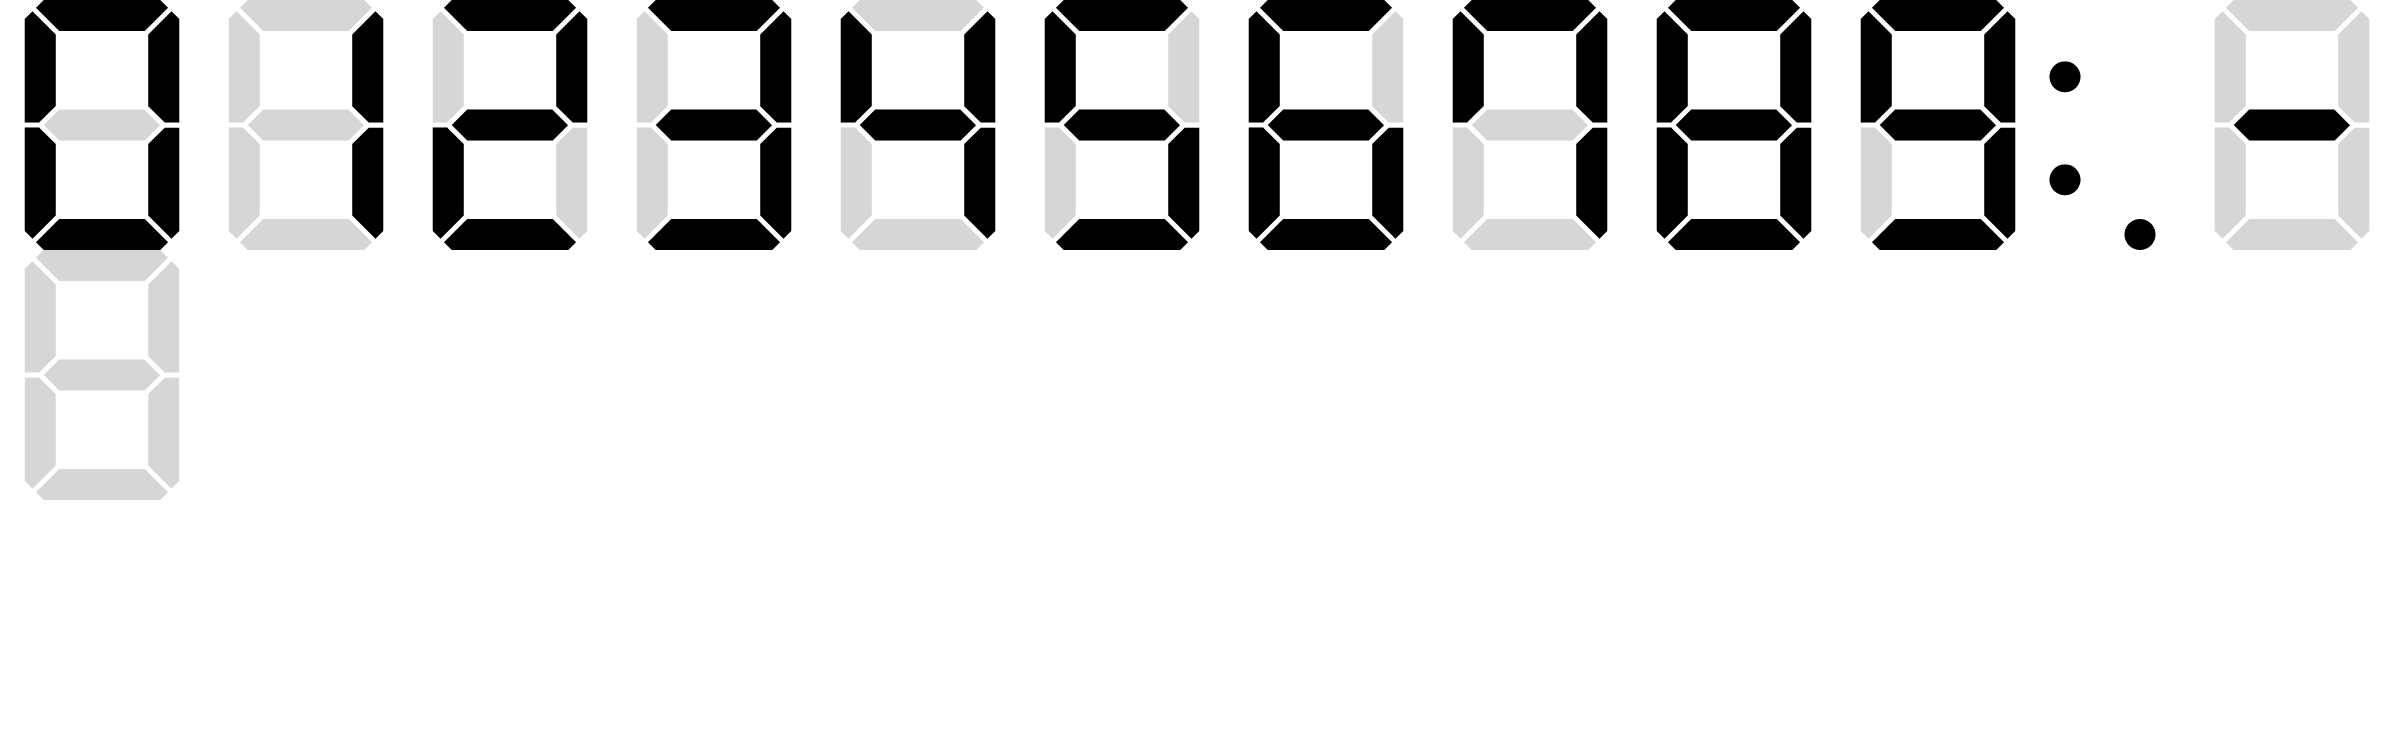
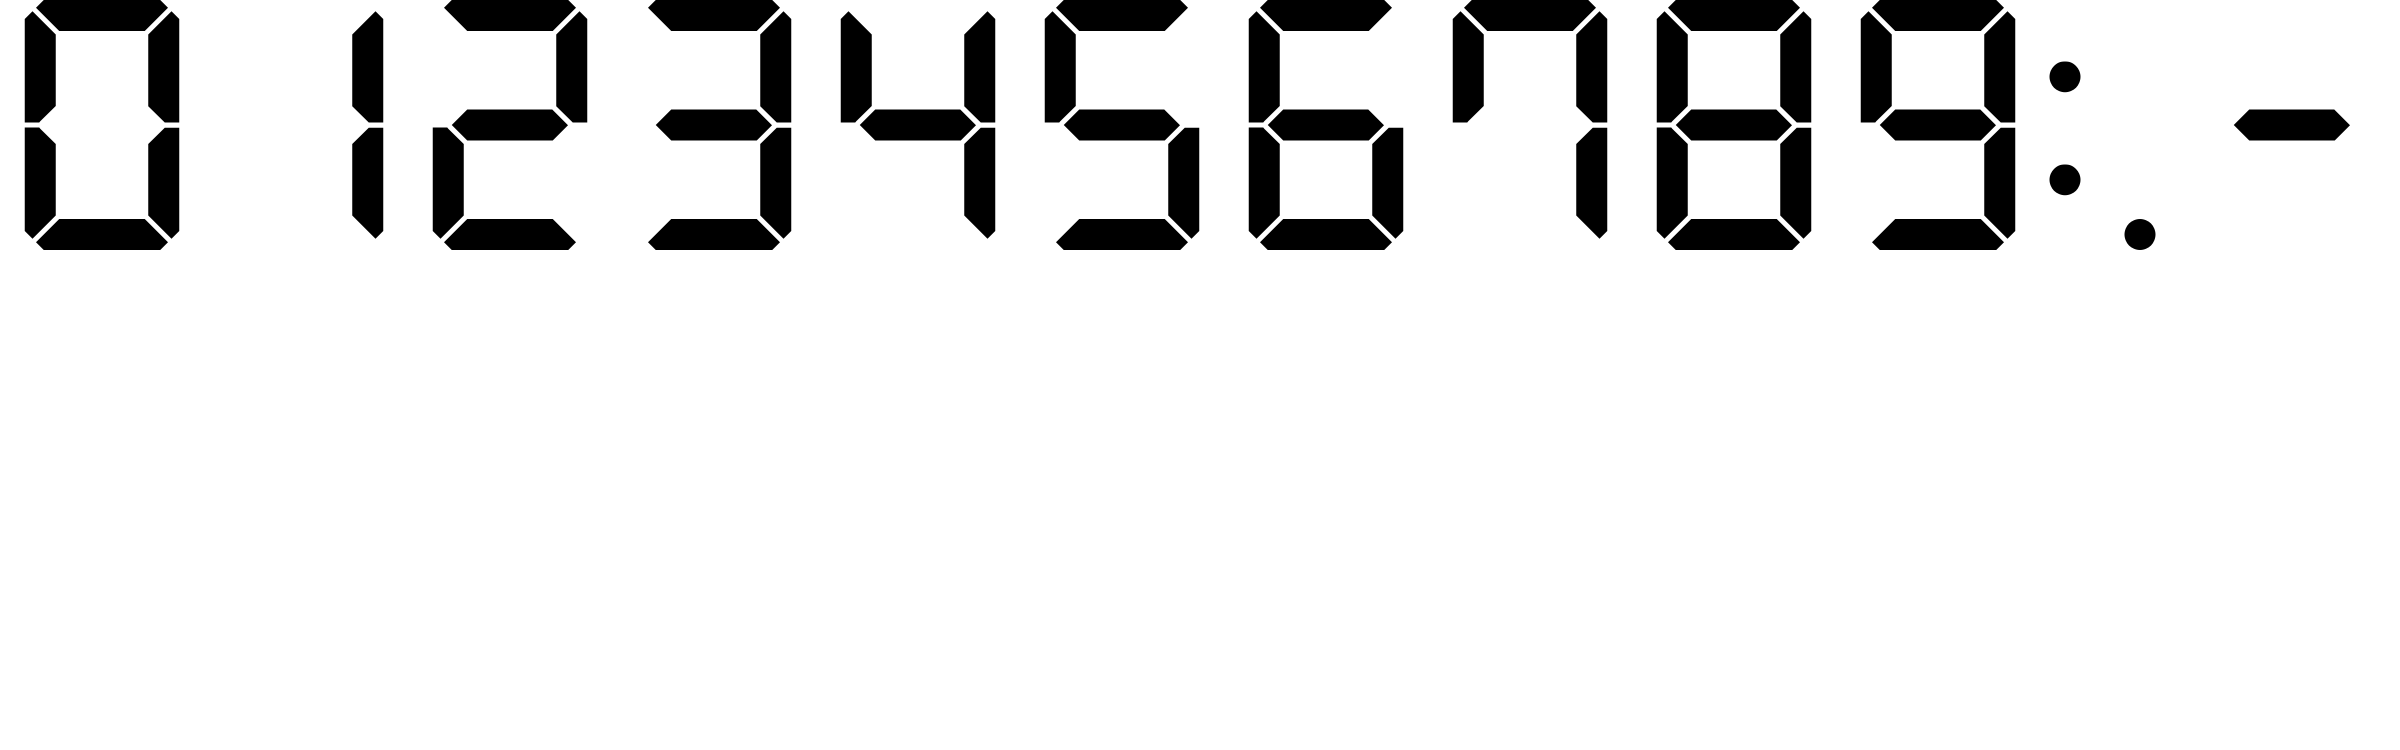
1.2.0-dev: added digitsstyle option

diff --git a/src/org/osumercury/controlcenter/gui/Assets.java b/src/org/osumercury/controlcenter/gui/Assets.java
@@ -49,8 +49,12 @@ public class Assets {
     private static BufferedImage digitsImg;
     private static BufferedImage classicDigitsImg;
     private static BufferedImage fontImg;
+    
     public static final int DEFAULT_BG_FADE = 10;
     public static final int DEFAULT_BG_COLOR = 0xffffff;
+    
+    public static final int DIGITS_MODERN = 0;
+    public static final int DIGITS_CLASSIC = 1;
     
     public static void loadInternalAssets() {
         try {
@@ -135,8 +139,9 @@ public class Assets {
         if(val != null) {
             try {
                 long intVal = Long.parseLong(val, 16);
-                populateDigits(digitsImg, (int)(intVal & 0xffL),
-                               (int)((intVal >> 8) & 0xffffffL));
+                digitFade = (int)(intVal & 0xffL);
+                digitFadeColor = (int)((intVal >> 8) & 0xffffffL);
+                populateDigits(digitsImg, digitFade, digitFadeColor);
             } catch(Exception e) {
                 System.err.println("Assets.theme: failed to parse digit fade");
                 System.err.println("Assets.theme: " + e.toString());
@@ -393,6 +398,16 @@ public class Assets {
                 DisplayFrame.SPACING_XL = Float.parseFloat(tokens[4]);
             } catch(Exception e) {
                 System.err.println("Assets.theme: failed to parse spacing");
+                System.err.println("Assets.theme: " + e.toString());
+            }
+        }
+        
+        val = theme.get("digitsstyle");
+        if(val != null) {
+            try {
+                setDigitsStyle(Integer.parseInt(val), digitFade, digitFadeColor);
+            } catch(Exception e) {
+                System.err.println("Assets.theme: failed to parse digits style");
                 System.err.println("Assets.theme: " + e.toString());
             }
         }
@@ -684,8 +699,16 @@ public class Assets {
         colorize(altColor, null, blackNonAlphabet, alternativeColorNonAlphabet);
     }
     
-    public static void setClassicDigits() {
-        populateDigits(classicDigitsImg, 204, 250, 2040, 70, 2110, 38, 2190, 204, DEFAULT_BG_FADE, DEFAULT_BG_COLOR);
+    public static void setDigitsStyle(int style, int fade, int fadeColor) {
+        switch(style) {
+            case Assets.DIGITS_CLASSIC:
+                populateDigits(classicDigitsImg, 
+                               204, 250, 2036, 56, 2110, 38, 2190, 204, 
+                               fade, fadeColor);
+                break;
+            default:
+                populateDigits(digitsImg, fade, fadeColor);
+        }
     }
     
     public static BufferedImage[] scaleFontH(int row, int height) {

diff --git a/src/org/osumercury/controlcenter/gui/DisplayOptionsFrame.java b/src/org/osumercury/controlcenter/gui/DisplayOptionsFrame.java
@@ -32,6 +32,7 @@ import javax.swing.JTabbedPane;
 import javax.swing.JTextArea;
 import javax.swing.JTextField;
 import javax.swing.event.ChangeEvent;
+import org.osumercury.controlcenter.Config;
 import org.osumercury.controlcenter.ControlCenter;
 import org.osumercury.controlcenter.Log;
 
@@ -46,6 +47,7 @@ public class DisplayOptionsFrame extends JFrame {
     private JPanel mainPaneTheme;
     private JPanel paneThemeButtons;
     private JButton btnThemeApply;
+    private JButton btnThemeLoad;
     private JTextArea txtTheme;
     
     private JPanel mainPaneDimensions;
@@ -277,6 +279,7 @@ public class DisplayOptionsFrame extends JFrame {
         
         paneThemeButtons = new JPanel();
         btnThemeApply = new JButton("Apply");
+        btnThemeLoad = new JButton("Load from Config");
         txtTheme = new JTextArea();
         txtTheme.setBackground(Color.BLACK);
         txtTheme.setForeground(new Color(0x20, 0xbb, 0xff));
@@ -286,14 +289,32 @@ public class DisplayOptionsFrame extends JFrame {
         JScrollPane scrollText = new JScrollPane(txtTheme, 
                 JScrollPane.VERTICAL_SCROLLBAR_ALWAYS,
                 JScrollPane.HORIZONTAL_SCROLLBAR_AS_NEEDED);
+        paneThemeButtons.add(btnThemeLoad);
         paneThemeButtons.add(btnThemeApply);
+        btnThemeLoad.addActionListener((ActionEvent e) -> {
+            if(Config.getSection("theme") == null) {
+                return;
+            }
+            StringBuilder str = new StringBuilder();
+            for(String key : Config.getKeysInOriginalOrder("theme")) {
+                str.append(key);
+                str.append("=");
+                str.append(Config.getValue("theme", key));
+                str.append("\n");
+            }
+            txtTheme.setText(str.toString());
+        });
         btnThemeApply.addActionListener((ActionEvent e) -> {
             String[] lines = txtTheme.getText().split("\\r?\\n");
             HashMap<String, String> entries = new HashMap<>();
             for(String line : lines) {
                 String[] tokens = line.split("=", 2);
                 if(tokens.length == 2) {
-                    entries.put(tokens[0], tokens[1]);
+                    if(tokens[0].equals("systemfont")) {
+                        cc.getDisplayFrame().setFont(tokens[1]);
+                    } else {
+                        entries.put(tokens[0], tokens[1]);
+                    }
                 }
             }
             Assets.theme(entries);

diff --git a/src/org/osumercury/controlcenter/ControlCenter.java b/src/org/osumercury/controlcenter/ControlCenter.java
@@ -323,7 +323,9 @@ public class ControlCenter {
             Assets.load(resourceDir);
             if(!noTheme) {
                 if(classicDigits) {
-                    Assets.setClassicDigits();
+                    Assets.setDigitsStyle(Assets.DIGITS_CLASSIC,
+                                          Assets.DEFAULT_BG_FADE,
+                                          Assets.DEFAULT_BG_COLOR);
                 }
                 Assets.theme(Config.getSectionAsMap("theme"));
             }
